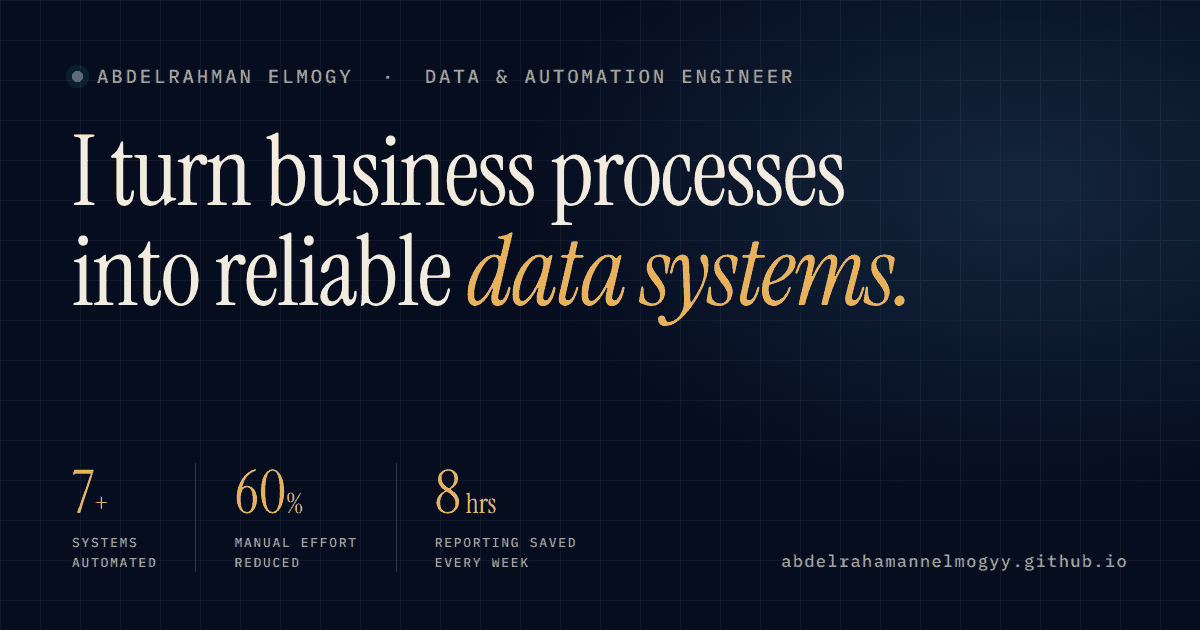
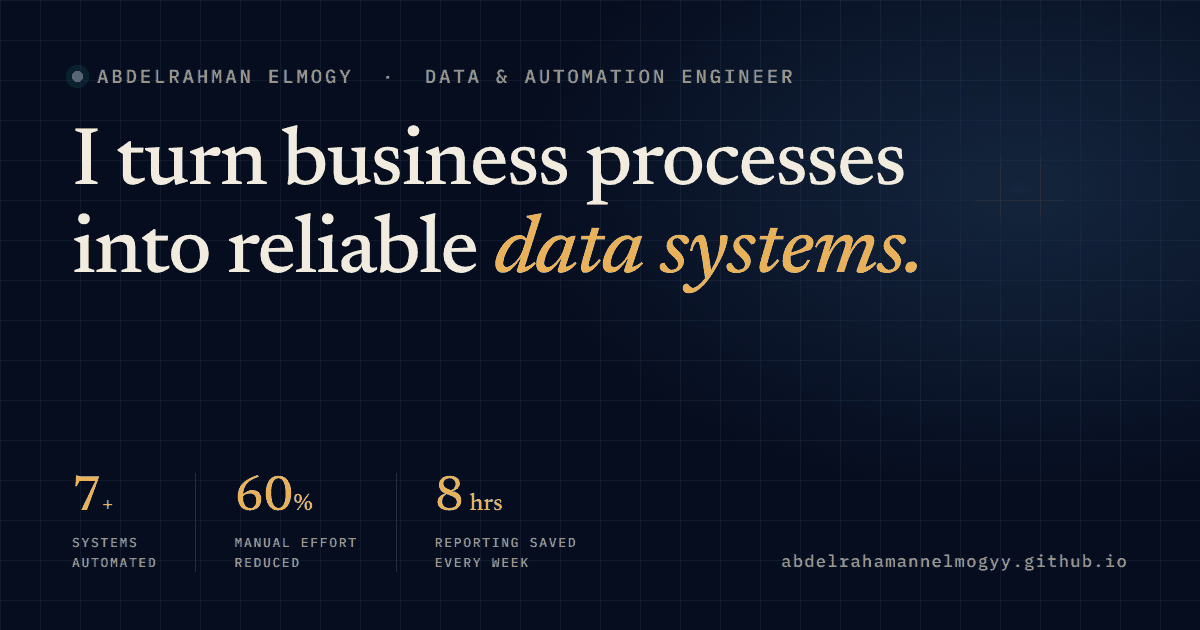
Add files via upload

diff --git a/styles.css b/styles.css
@@ -23,8 +23,8 @@
   size-adjust: 107.4%;
 }
 
-@font-face { font-family: "Instrument Serif"; font-style: normal; font-weight: 400; font-display: swap; src: url("instrument-serif-400.woff2") format("woff2"); }
-@font-face { font-family: "Instrument Serif"; font-style: italic; font-weight: 400; font-display: swap; src: url("instrument-serif-400-italic.woff2") format("woff2"); }
+@font-face { font-family: "Newsreader"; font-style: normal; font-weight: 500; font-display: swap; src: url("newsreader-500.woff2") format("woff2"); }
+@font-face { font-family: "Newsreader"; font-style: italic; font-weight: 500; font-display: swap; src: url("newsreader-500-italic.woff2") format("woff2"); }
 @font-face { font-family: "IBM Plex Mono"; font-style: normal; font-weight: 500; font-display: swap; src: url("ibm-plex-mono-500.woff2") format("woff2"); }
 
 :root {
@@ -46,7 +46,7 @@
 
   /* Typography */
   --font-sans: "Inter", "Inter Fallback", system-ui, -apple-system, "Segoe UI", Roboto, Arial, sans-serif;
-  --font-display: "Instrument Serif", "Iowan Old Style", "Palatino Linotype", Georgia, serif;
+  --font-display: "Newsreader", "Iowan Old Style", "Palatino Linotype", Georgia, serif;
   --font-mono: "IBM Plex Mono", ui-monospace, "SF Mono", "Cascadia Mono", Menlo, Consolas, monospace;
   --ivory: #f2ece0;
   --amber: #e9b15a;
@@ -1806,14 +1806,14 @@ body.menu-open { overflow: hidden; }
 .avail { display: inline-flex; flex: 1; flex-wrap: wrap; align-items: center; min-width: 0; gap: 0.15rem 0.5rem; }
 .avail strong { font-weight: 500; color: var(--ivory); }
 .avail-dot { width: 8px; height: 8px; background: var(--success); border-radius: 50%; box-shadow: 0 0 0 4px var(--success-a20); }
-.hero h1 { margin: 0; font-family: var(--font-display); font-size: clamp(2.9rem, 6.3vw, 5.1rem); font-weight: 400; line-height: 1.03; letter-spacing: -0.015em; text-wrap: balance; color: var(--ivory); }
+.hero h1 { margin: 0; font-family: var(--font-display); font-size: clamp(2.5rem, 5.2vw, 4.3rem); font-weight: 500; line-height: 1.06; letter-spacing: -0.02em; text-wrap: balance; color: var(--ivory); }
 .hero h1 em { font-style: italic; color: var(--amber); }
 .hero-sub { max-width: 34em; margin-top: 1.6rem; font-size: var(--fs-lg); line-height: 1.65; color: var(--text-muted); }
 .hero-sub strong { font-weight: 500; color: var(--text-primary); }
 .hero-proof { display: flex; flex-wrap: wrap; gap: 1.4rem 0; margin: 2.4rem 0 0; padding: 0; list-style: none; }
 .hero-proof li { padding: 0 2rem; border-left: 1px solid var(--navy-border); }
 .hero-proof li:first-child { padding-left: 0; border-left: 0; }
-.hero-proof .num { display: block; font-family: var(--font-display); font-size: clamp(2.4rem, 4.3vw, 3.75rem); line-height: 1; color: var(--amber); }
+.hero-proof .num { display: block; font-family: var(--font-display); font-size: clamp(2.1rem, 3.5vw, 3rem); font-weight: 500; line-height: 1; color: var(--amber); }
 .hero-proof .num small { font-size: 0.45em; opacity: 0.85; }
 .hero-proof .lab { display: block; margin-top: 0.65rem; font-family: var(--font-mono); font-size: var(--fs-2xs); letter-spacing: 0.13em; line-height: 1.55; text-transform: uppercase; color: var(--text-muted); }
 .hero-cta { display: flex; flex-wrap: wrap; align-items: center; gap: 0.9rem; margin-top: 2.5rem; }
@@ -1875,13 +1875,13 @@ body.menu-open { overflow: hidden; }
 /* ====================================================================
    TYPE ROLES: serif for statements and key numbers, mono for labels
    ==================================================================== */
-.logo { font-family: var(--font-display); font-size: var(--fs-2xl); font-weight: 400; letter-spacing: 0; }
-.section-title { margin-bottom: 0.6rem; font-family: var(--font-display); font-size: clamp(2.1rem, 4.2vw, 3rem); font-weight: 400; line-height: 1.1; text-align: left; color: var(--ivory); }
+.logo { font-family: var(--font-display); font-size: 1.35rem; font-weight: 500; letter-spacing: -0.005em; }
+.section-title { margin-bottom: 0.6rem; font-family: var(--font-display); font-size: clamp(1.9rem, 3.6vw, 2.6rem); font-weight: 500; line-height: 1.12; text-align: left; color: var(--ivory); }
 .section-lead { margin-left: 0; margin-right: 0; text-align: left; }
-.cs-title, .dd-h { font-family: var(--font-display); font-weight: 400; color: var(--ivory); }
-.cs-title { font-size: clamp(1.7rem, 3vw, 2.2rem); line-height: 1.12; }
-.dd-h { font-size: var(--fs-2xl); }
-.dd-num { font-family: var(--font-display); font-weight: 400; color: var(--amber); }
+.cs-title, .dd-h { font-family: var(--font-display); font-weight: 500; color: var(--ivory); }
+.cs-title { font-size: clamp(1.5rem, 2.6vw, 1.95rem); line-height: 1.15; }
+.dd-h { font-size: var(--fs-xl); }
+.dd-num { font-family: var(--font-display); font-weight: 500; color: var(--amber); }
 .cs-kicker, .cs-meta dt, .cs-block h4, .cs-analysis h4, .cs-rates h4, .dd-sub, .cs-stack-label, .verb, .method-n, .cert-new-badge, .cert-new-date, .dg-legend { font-family: var(--font-mono); letter-spacing: 0.1em; }
 #experience strong { font-weight: 600; color: var(--amber); }
 

diff --git a/recruiter.html b/recruiter.html
@@ -6,8 +6,8 @@
 <link rel="icon" href="favicon.svg" type="image/svg+xml"><link rel="icon" href="favicon.ico" sizes="32x32">
 <style>
 @font-face{font-family:"Inter";font-weight:100 900;font-display:swap;src:url(inter-latin-wght-normal.woff2) format("woff2")}
-@font-face{font-family:"Instrument Serif";font-style:normal;font-weight:400;font-display:swap;src:url(instrument-serif-400.woff2) format("woff2")}
-@font-face{font-family:"Instrument Serif";font-style:italic;font-weight:400;font-display:swap;src:url(instrument-serif-400-italic.woff2) format("woff2")}
+@font-face{font-family:"Newsreader";font-style:normal;font-weight:500;font-display:swap;src:url(newsreader-500.woff2) format("woff2")}
+@font-face{font-family:"Newsreader";font-style:italic;font-weight:500;font-display:swap;src:url(newsreader-500-italic.woff2) format("woff2")}
 @font-face{font-family:"IBM Plex Mono";font-weight:500;font-display:swap;src:url(ibm-plex-mono-500.woff2) format("woff2")}
 :root{--ink:#14181f;--mute:#4b5565;--rule:#d9d4c8;--amber:#8a5a00;--blue:#1f5f8f;--bg:#f1eee6}
 *{box-sizing:border-box}
@@ -19,14 +19,14 @@ a{color:var(--blue)}
 .btn.alt{color:var(--ink);background:#fff;border-color:#bdb7a8}
 .paper{max-width:880px;margin:1rem auto 3rem;padding:2.2rem 2.5rem;background:#fff;border:1px solid var(--rule);border-radius:6px}
 header.top{display:flex;flex-wrap:wrap;justify-content:space-between;gap:.8rem 2rem;align-items:flex-end;padding-bottom:1rem;border-bottom:2px solid var(--ink)}
-h1{margin:0;font:400 2.7rem/1.02 "Instrument Serif",Georgia,serif;letter-spacing:-.01em}
+h1{margin:0;font:500 2.4rem/1.05 "Newsreader",Georgia,serif;letter-spacing:-.015em}
 .role{margin:.3rem 0 0;font-weight:500;color:var(--mute)}
 .contact{font-size:.85em;line-height:1.7;text-align:right}
 .contact .av{display:block;font-family:"IBM Plex Mono",monospace;font-size:.78em;letter-spacing:.08em;text-transform:uppercase;color:var(--amber)}
 h2{margin:1.15rem 0 .5rem;font:500 .72rem "IBM Plex Mono",ui-monospace,monospace;letter-spacing:.14em;text-transform:uppercase;color:var(--mute)}
 .sum{margin:.9rem 0 0;font-size:1.02em}
 .proof{display:grid;grid-template-columns:repeat(4,1fr);gap:.8rem;margin:1rem 0 0;padding:.8rem 0;border-block:1px solid var(--rule);list-style:none}
-.proof li{display:block}.proof b{display:block;font:400 2rem/1 "Instrument Serif",Georgia,serif;color:var(--amber)}.proof span{display:block;margin-top:.25rem;font-size:.72rem;line-height:1.35;color:var(--mute)}
+.proof li{display:block}.proof b{display:block;font:500 1.75rem/1 "Newsreader",Georgia,serif;color:var(--amber)}.proof span{display:block;margin-top:.25rem;font-size:.72rem;line-height:1.35;color:var(--mute)}
 .sys{margin:0;padding:0;list-style:none;display:grid;gap:.7rem}
 .sys .sh{display:flex;justify-content:space-between;gap:1rem}.sys p{margin:.1rem 0 0;font-size:.92em}.sys .res{color:var(--ink);font-weight:500}
 .cols{display:grid;grid-template-columns:1.35fr 1fr;gap:1.6rem}
@@ -43,7 +43,7 @@ h2{margin:1.15rem 0 .5rem;font:500 .72rem "IBM Plex Mono",ui-monospace,monospace
 @page{size:A4;margin:11mm}
 @media print{
  body{background:#fff;font-size:8.7pt;line-height:1.42}.bar,.noprint,.dl{display:none!important}.paper{margin:0;padding:0;max-width:none;border:0;border-radius:0}
- h1{font-size:25pt}h2{margin:.8rem 0 .3rem}.proof b{font-size:19pt}.proof{padding:.5rem 0;margin-top:.7rem}.sum{font-size:9.2pt;margin-top:.6rem}.cols{gap:1.1rem}
+ h1{font-size:22pt}h2{margin:.8rem 0 .3rem}.proof b{font-size:16pt}.proof{padding:.5rem 0;margin-top:.7rem}.sum{font-size:9.2pt;margin-top:.6rem}.cols{gap:1.1rem}
  a{color:inherit;text-decoration:none}.sys{gap:.45rem}.exp>li{margin-bottom:.5rem}
 }
 </style></head>

diff --git a/index.html b/index.html
@@ -31,10 +31,10 @@
 
 <script>document.documentElement.classList.add('js')</script>
 <link rel="preload" href="inter-latin-wght-normal.woff2" as="font" type="font/woff2" crossorigin>
-<link rel="preload" href="instrument-serif-400.woff2" as="font" type="font/woff2" crossorigin>
-<link rel="preload" href="instrument-serif-400-italic.woff2" as="font" type="font/woff2" crossorigin>
+<link rel="preload" href="newsreader-500.woff2" as="font" type="font/woff2" crossorigin>
+<link rel="preload" href="newsreader-500-italic.woff2" as="font" type="font/woff2" crossorigin>
 <link rel="preload" href="ibm-plex-mono-500.woff2" as="font" type="font/woff2" crossorigin>
-<link rel="stylesheet" href="styles.css?v=3.0.0">
+<link rel="stylesheet" href="styles.css?v=3.1.0">
 <script type="application/ld+json">
 {
   "@context": "https://schema.org",
@@ -756,6 +756,6 @@
 
 		<button type="button" id="scrollTop" aria-label="Back to top"><svg class="i" aria-hidden="true" focusable="false"><use href="#i-arrow-up"></use></svg></button>
 
-<script src="app.js?v=3.0.0" defer></script>
+<script src="app.js?v=3.1.0" defer></script>
 </body>
 </html>
